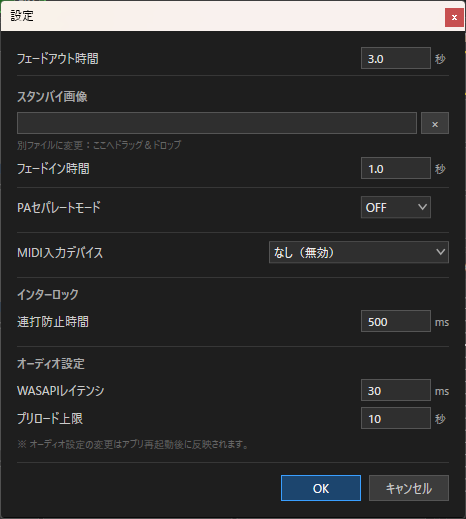
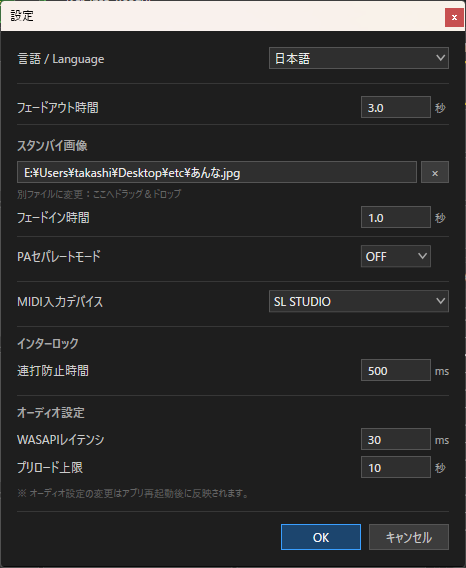
fix: v1.2.3 — 設定ダイアログのタイトルを「全体設定」に変更

diff --git a/src/ikePon/Resources/Strings.ja.xaml b/src/ikePon/Resources/Strings.ja.xaml
@@ -20,7 +20,7 @@
     <sys:String x:Key="Str_Btn_ResetDefault">初期値に戻す</sys:String>
 
     <!-- 設定ダイアログ -->
-    <sys:String x:Key="Str_Dlg_Settings_Title">設定</sys:String>
+    <sys:String x:Key="Str_Dlg_Settings_Title">全体設定</sys:String>
     <sys:String x:Key="Str_Dlg_Settings_FadeOutTime">フェードアウト時間</sys:String>
     <sys:String x:Key="Str_Dlg_Settings_Sec">秒</sys:String>
     <sys:String x:Key="Str_Dlg_Settings_StandbyImage">スタンバイ画像</sys:String>

diff --git a/src/ikePon/obj/Debug/net9.0-windows/ikePon.AssemblyInfo.cs b/src/ikePon/obj/Debug/net9.0-windows/ikePon.AssemblyInfo.cs
@@ -12,11 +12,11 @@ using System.Reflection;
 
 [assembly: System.Reflection.AssemblyCompanyAttribute("ikePon")]
 [assembly: System.Reflection.AssemblyConfigurationAttribute("Debug")]
-[assembly: System.Reflection.AssemblyFileVersionAttribute("1.2.1.0")]
-[assembly: System.Reflection.AssemblyInformationalVersionAttribute("1.2.1+62cc53a574100cf52429413ef0f6e453f0b7ca80")]
+[assembly: System.Reflection.AssemblyFileVersionAttribute("1.2.2.0")]
+[assembly: System.Reflection.AssemblyInformationalVersionAttribute("1.2.2+6668a51e32ef4d26e3a9ec75c5bcf88a67d4e930")]
 [assembly: System.Reflection.AssemblyProductAttribute("ikePon")]
 [assembly: System.Reflection.AssemblyTitleAttribute("ikePon")]
-[assembly: System.Reflection.AssemblyVersionAttribute("1.2.1.0")]
+[assembly: System.Reflection.AssemblyVersionAttribute("1.2.2.0")]
 [assembly: System.Runtime.Versioning.TargetPlatformAttribute("Windows7.0")]
 [assembly: System.Runtime.Versioning.SupportedOSPlatformAttribute("Windows7.0")]
 